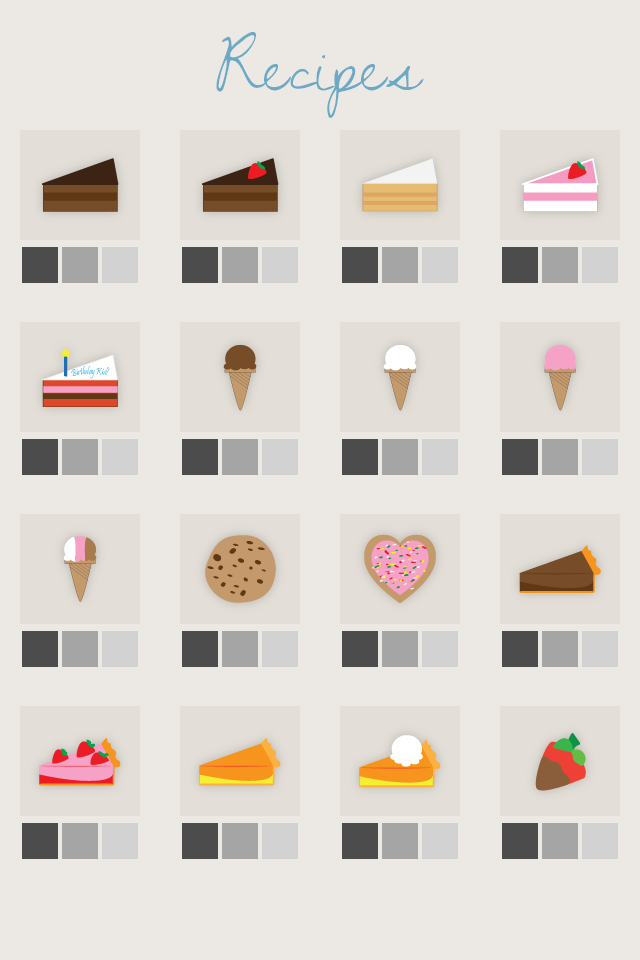
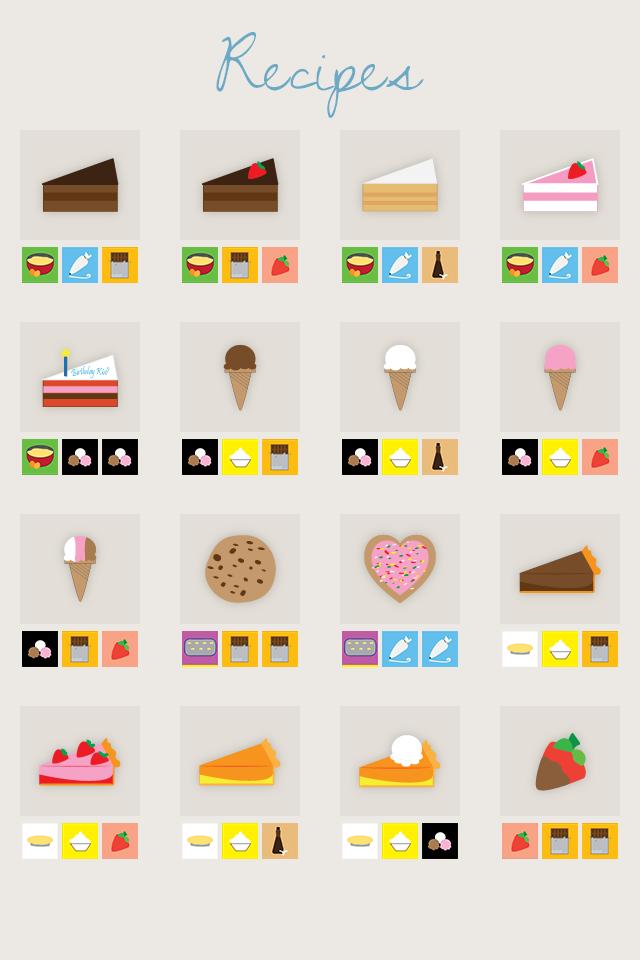
Finish recipebook
Small changes to store

diff --git a/js/shopitems.js b/js/shopitems.js
@@ -10,19 +10,16 @@ ShopItem = Class.create(Sprite, {
 
       this.labelName = new Label(this.name);
       this.labelName.font = '32px ' + font.plain;
-      this.labelName.color = 'black';
       this.labelName.x = x+115;
       this.labelName.y = y-30;
 
       this.labelInfo = new Label();
       this.labelInfo.font = '36px ' + font.plain;
-      this.labelInfo.color = 'black';
       this.labelInfo.x = x+115;
       this.labelInfo.y = y+5;
 
       this.labelInventory = new Label();
       this.labelInventory.font = 'bold 36px ' + font.plain;
-      this.labelInventory.color = 'black';
       this.labelInventory.x = x;
       this.labelInventory.y = y-10;
 
@@ -65,6 +62,7 @@ CakeBatterShop = Class.create(ShopItem, {
    initialize: function(x, y, cost) {
       ShopItem.call(this, 'CakeBatter', x, y, cost);
       this.frame = 0;
+      this.labelName.color = color.green;
    }
 });
 
@@ -72,6 +70,7 @@ CookieDoughShop = Class.create(ShopItem, {
    initialize: function(x, y, cost) {
       ShopItem.call(this, 'CookieDough', x, y, cost);
       this.frame = 1;
+      this.labelName.color = color.purple;
    }
 });
 
@@ -79,6 +78,7 @@ PieCrustShop = Class.create(ShopItem, {
    initialize: function(x, y, cost) {
       ShopItem.call(this, 'PieCrust', x, y, cost);
       this.frame = 2;
+      this.labelName.color = '#aaa';
    }
 });
 
@@ -86,6 +86,7 @@ IceCreamShop = Class.create(ShopItem, {
    initialize: function(x, y, cost) {
       ShopItem.call(this, 'IceCream', x, y, cost);
       this.frame = 3;
+      this.labelName.color = color.black;
    }
 });
 
@@ -93,6 +94,7 @@ CreamShop = Class.create(ShopItem, {
    initialize: function(x, y, cost) {
       ShopItem.call(this, 'Cream', x, y, cost);
       this.frame = 4;
+      this.labelName.color = '#ccba00';
    }
 });
 
@@ -100,6 +102,7 @@ IcingShop = Class.create(ShopItem, {
    initialize: function(x, y, cost) {
       ShopItem.call(this, 'Icing', x, y, cost);
       this.frame = 5;
+      this.labelName.color = color.lightBlue;
    }
 });
 
@@ -107,6 +110,7 @@ ChocolateShop = Class.create(ShopItem, {
    initialize: function(x, y, cost) {
       ShopItem.call(this, 'Chocolate', x, y, cost);
       this.frame = 6;
+      this.labelName.color = color.orange;
    }
 });
 
@@ -114,6 +118,7 @@ VanillaShop = Class.create(ShopItem, {
    initialize: function(x, y, cost) {
       ShopItem.call(this, 'Vanilla', x, y, cost);
       this.frame = 7;
+      this.labelName.color = color.lightBrown;
    }
 });
 
@@ -121,5 +126,6 @@ StrawberryShop = Class.create(ShopItem, {
    initialize: function(x, y, cost) {
       ShopItem.call(this, 'Strawberry', x, y, cost);
       this.frame = 8;
+      this.labelName.color = color.lightRed;
    }
 });

diff --git a/js/shop.js b/js/shop.js
@@ -22,10 +22,11 @@ Shop = Class.create(Scene, {
       shopLabel.y = 20;
 
       // Level number
-      var levelNum = new Label(this.level.num + ' kids');
+      var levelNum = new Label('Goal: ' + this.level.num + ' kids');
       levelNum.font = '40px ' + font.plain;
+      levelNum.textAlign = 'right';
       levelNum.color = 'black';
-      levelNum.x = 20;
+      levelNum.width = '620';
       levelNum.y = 15;
 
       // Money
@@ -34,19 +35,19 @@ Shop = Class.create(Scene, {
       currentMoney.textAlign = 'right';
       currentMoney.color = 'black';
       currentMoney.width = '620';
-      currentMoney.y = 15;
+      currentMoney.y = 55;
 
       currentMoney.onenterframe = function() {
          this.text = ('$' + player.money);
       };
 
       // Start button
-      var nextLevelLabel = new Label('Start Level');
+      var nextLevelLabel = new Label('Start!');
       nextLevelLabel.font = '56px ' + font.plain;
       nextLevelLabel.color = color.pink;
-      nextLevelLabel.textAlign = 'center';
-      nextLevelLabel.width = '640';
-      nextLevelLabel.y = 860;
+      nextLevelLabel.textAlign = 'right';
+      nextLevelLabel.width = '620';
+      nextLevelLabel.y = 880;
       nextLevelLabel.buttonMode = 'a';
 
       nextLevelLabel.onenterframe = function() {
@@ -58,6 +59,9 @@ Shop = Class.create(Scene, {
       this.addChild(levelNum);
       this.addChild(nextLevelLabel);
       this.addChild(currentMoney);
+
+      // Add recipebook button
+      this.addChild(new RecipeBookEnter());
    }
 });
 

diff --git a/js/main.js b/js/main.js
@@ -8,9 +8,16 @@ this.ingredients  = null;
 
 this.color = {
    black:         '#000000',
-   lightBlue:     '#',
+   green:         '#6dc647',
+   lightBlue:     '#63bfec',
+   lightBrown:    '#ecbe7b',
+   lightRed:      '#f8a286',
    lightYellow:   '#FAF8CD',
+   orange:        '#fdbb12',
    pink:          '#CF4C71',
+   purple:        '#bd5da3',
+   white:         '#FFFFFF',
+   yellow:        '#fff107'
 };
 
 this.font = {
@@ -44,21 +51,16 @@ loadGame = function() {
 
    game.preload(
       'images/background.png',
-
-      'images/recipebook.png',
-      'images/book.png',
-      'images/close.png',
-
       'images/bowl.png',
+      'images/bubble.png',
       'images/dessert.png',
       'images/ingredient.png',
-      'images/trash.png',
-
-      'images/bubble.png',
       'images/kid.png',
-
+      'images/recipebook.png',
+      'images/recipebookbuttons.png',
       'images/splash.png',
       'images/splashbuttons.png',
+      'images/trash.png',
       'images/tutorialbuttons.png',
       'images/tutorials/1.png',
       'images/tutorials/2.png',

diff --git a/js/RecipeBook.js b/js/RecipeBook.js
@@ -8,8 +8,9 @@ RecipeBook = Class.create(Sprite, {
 
 RecipeBookExit = Class.create(Sprite, {
    initialize: function() {
-      Sprite.call(this, 58, 70);
-      this.image = game.assets['images/close.png'];
+      Sprite.call(this, 60, 72);
+      this.image = game.assets['images/recipebookbuttons.png'];
+      this.frame = 1;
       this.x = 10;
       this.y = 880;
    },
@@ -21,8 +22,9 @@ RecipeBookExit = Class.create(Sprite, {
 
 RecipeBookEnter = Class.create(Sprite, {
    initialize: function() {
-      Sprite.call(this, 58, 70);
-      this.image = game.assets['images/book.png'];
+      Sprite.call(this, 60, 72);
+      this.image = game.assets['images/recipebookbuttons.png'];
+      this.frame = 0;
       this.x = 10;
       this.y = 880;
       this.recipeScene = new Scene();
